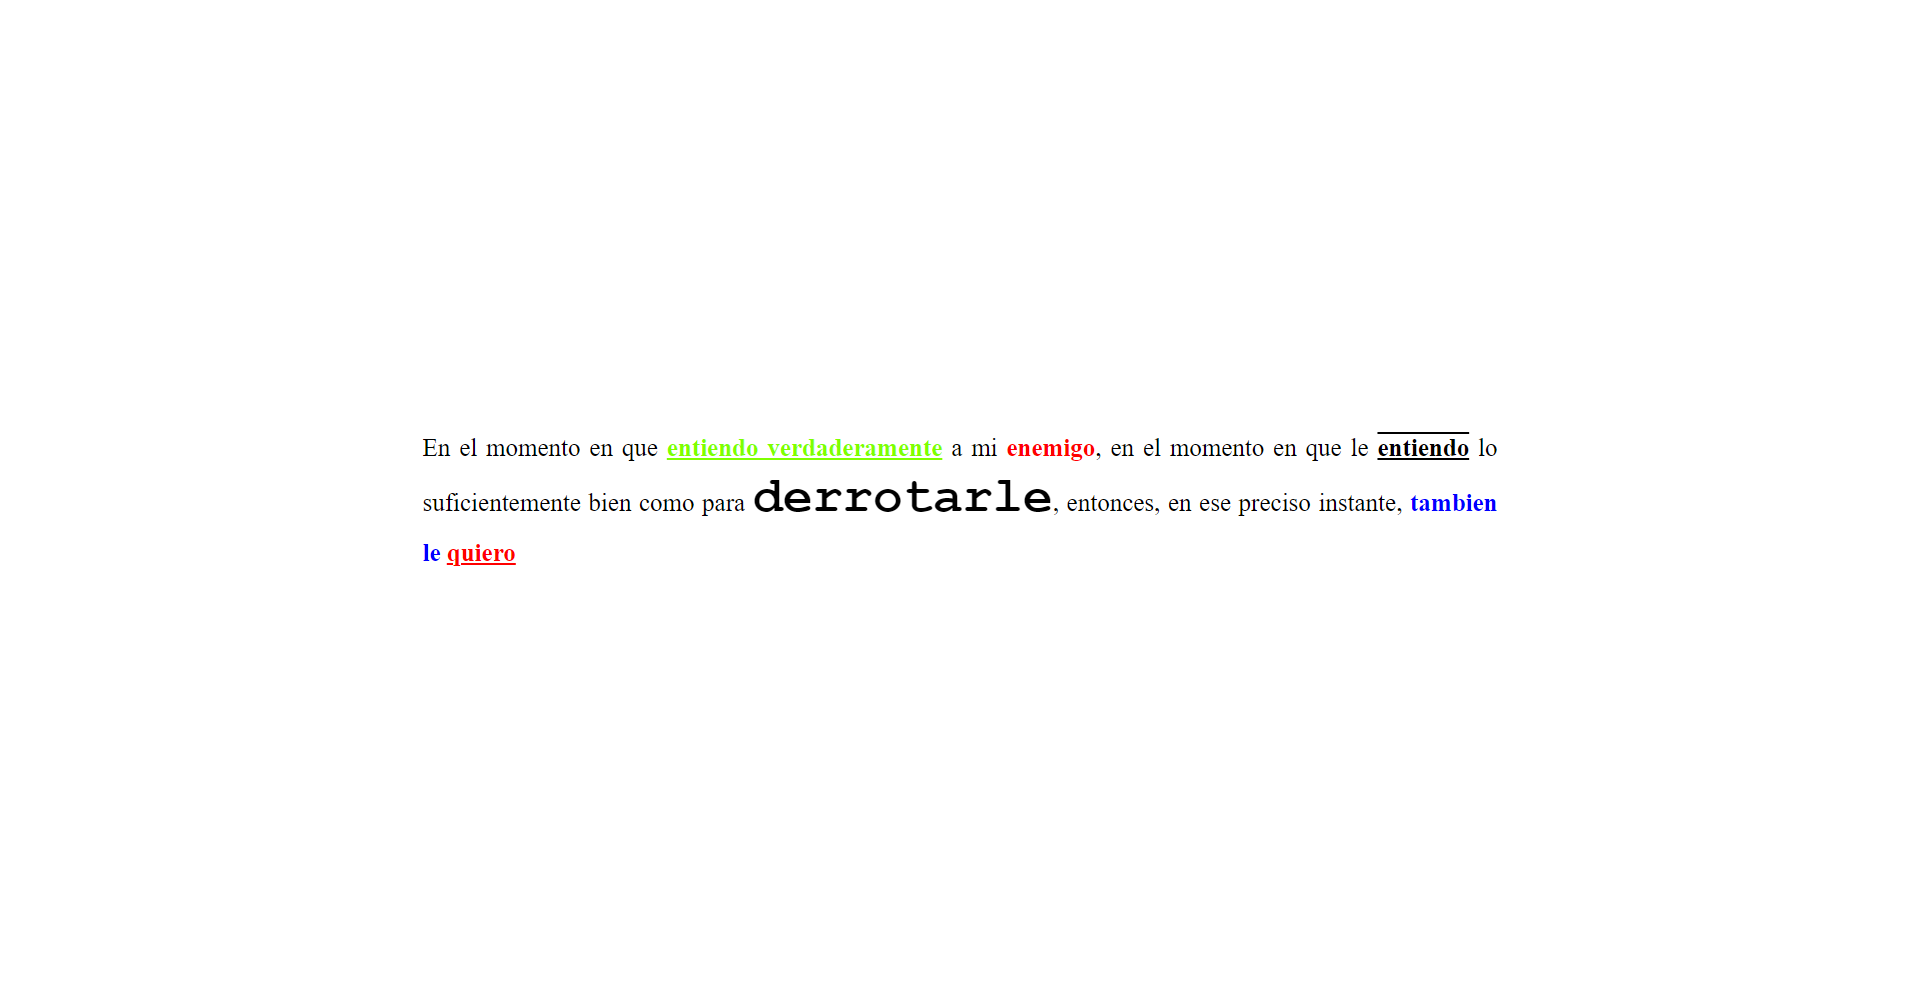
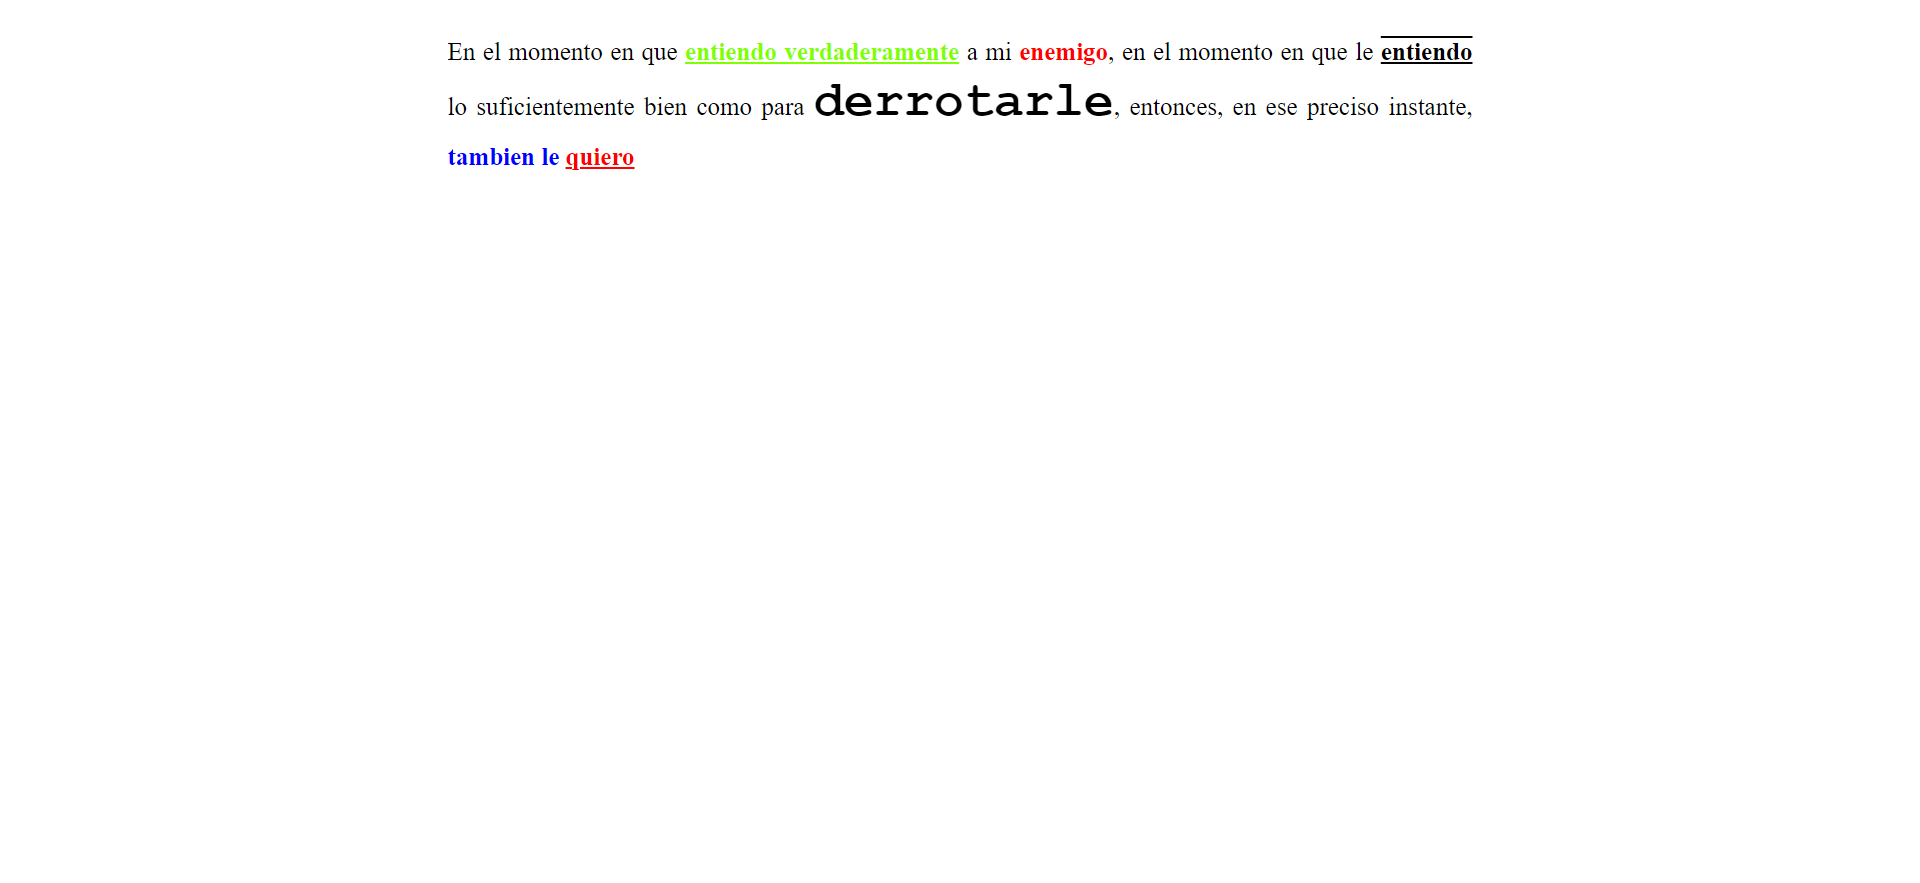
Modificaciones del readme

Changed region(s): [[0.2188, 0.0306, 0.7812, 0.214], [0.2188, 0.4281, 0.7812, 0.5198], [0.2188, 0.5504, 0.2812, 0.581]]

diff --git a/punto-6/styles/punto-6-styles.css b/punto-6/styles/punto-6-styles.css
@@ -1,0 +1,15 @@
+body{
+    text-align: left;
+    margin-left: 650px;
+}
+.text-1{
+    font-weight: bolder;
+}
+.text-2{
+    color: yellow;
+    text-decoration: underline;
+}
+.text-3{
+    color: blueviolet;
+    text-decoration: underline;
+}

diff --git a/punto-6/index-6.html b/punto-6/index-6.html
@@ -8,7 +8,7 @@
 </head>
 <body>
     <h1 class="text-1">Enlaces.link and hover</h1>
-    <h1 class="text-2">IraMarca</h1>
+    <h1 class="text-2">Ir a Marca</h1>
     <h1 class="text-3">Ir a AS</h1>
     
 </body>

diff --git a/punto-5/styles/punto-5-styles.css b/punto-5/styles/punto-5-styles.css
@@ -2,7 +2,8 @@
     text-align: justify;
     font-weight: 200;
     font-size: 20px;
-    margin: 330px;
+    margin-left: 350px;
+    margin-right: 350px;
     line-height: 40px;
     }
 .text-a{

diff --git a/README.md b/README.md
@@ -20,3 +20,7 @@
 <h2>Punto 5: </h2>
 <img src="/public/images/5.png" alt="5">
 
+<h2>Punto 6:</h2>
+<img src="/public/images/6.png" alt="6">
+
+
